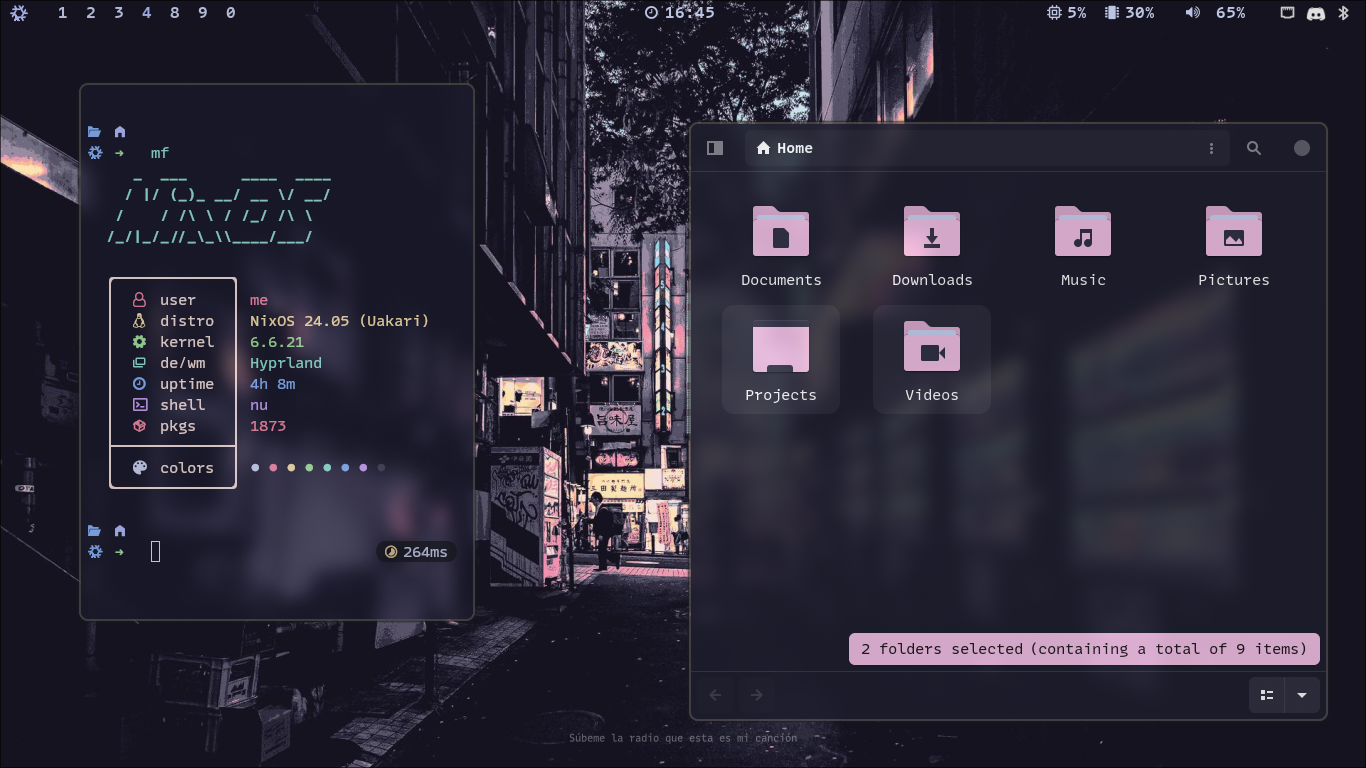
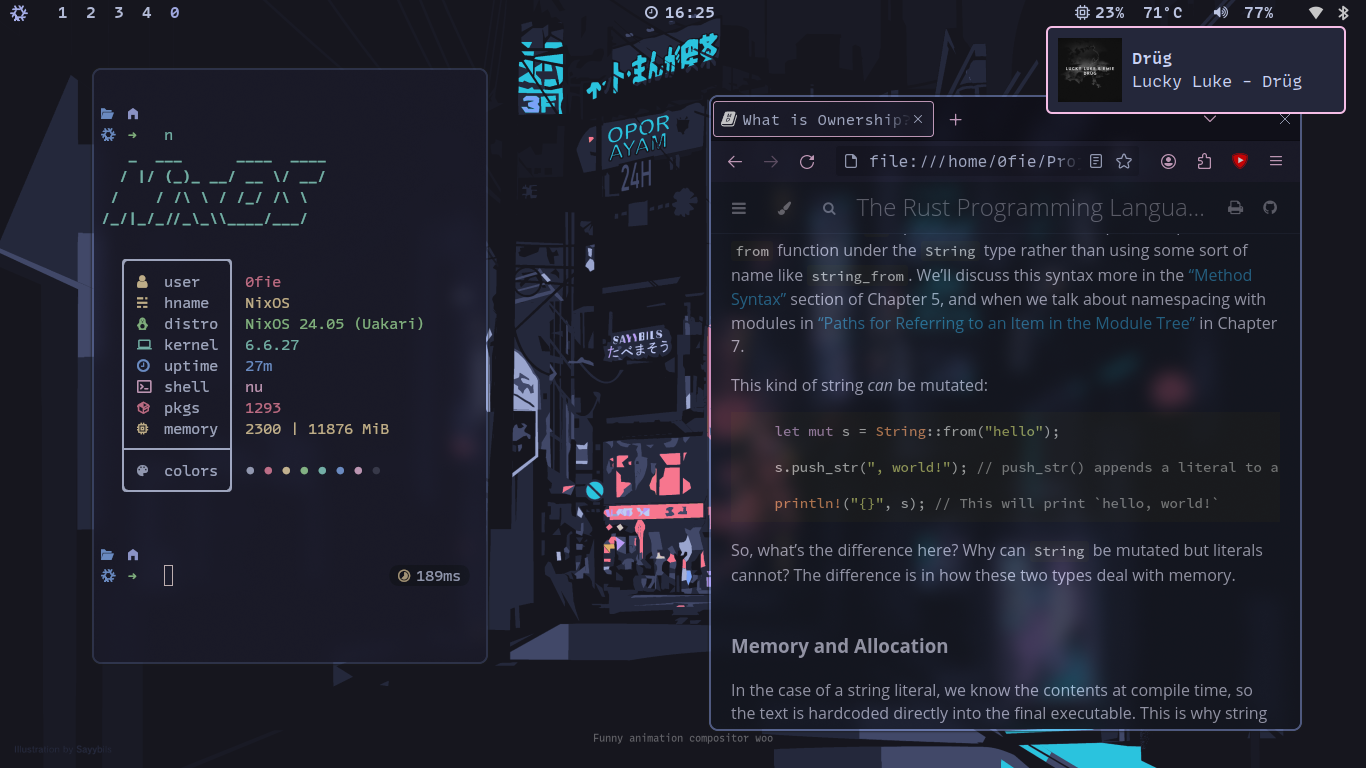
chore: update rice images

diff --git a/README.md b/README.md
@@ -1,11 +1,9 @@
 <h1 align="center">
    <img src="https://github.com/0fie/Maika/assets/151028199/6da7fe65-6661-4bb6-b5bc-b72aa6d79a7a" width="100px" /> 
-   <br>
-      0fie's ultra-simple NixOS config 
-   <br>
-      <img src="https://raw.githubusercontent.com/catppuccin/catppuccin/main/assets/palette/macchiato.png" width="600px" /> <br>
-   <div align="center">
+   <br>0fie's ultra-simple NixOS config
+   <br><img src="https://raw.githubusercontent.com/catppuccin/catppuccin/main/assets/palette/macchiato.png" width="600px" /><br>
 
+   <div align="center">
    <div align="center">
       <p></p>
       <div align="center">
@@ -29,12 +27,8 @@
 <br>
 </div>
 
-<p align="center">
-   <img src="https://github.com/0fie/Maika/blob/main/docs/images/rice/v1/rice.png" width="800px" /> <br>
-</p>
-<p align="center">
-   Screenshot last updated <b>20 March</b>
-</p>
+<p align="center"><img src="https://github.com/0fie/Maika/blob/main/docs/images/rice/v1/rice.png" width="800px" /><br></p>
+<p align="center">Screenshot last updated <b>21 April</b></p>
 
 ### 🖼 Gallery
 
@@ -48,25 +42,14 @@
    </p>
 
    <p align="center">
-      Hyprlock (lock screen)
-      <img src="https://github.com/0fie/Maika/blob/main/docs/images/rice/v1/lock.png" width="800px" /> <br>
-   </p>
-   <p align="center">
       App Launcher (rofi-wayland)
       <img src="https://github.com/0fie/Maika/blob/main/docs/images/rice/v1/rofi.png" width="800px" /> <br>
    </p>
+
    <p align="center">
-      Helix Editor (left) and Yazi (right)
+      Neovim (left) and Yazi (right)
       <img src="https://github.com/0fie/Maika/blob/main/docs/images/rice/v1/cli.png" width="800px" /> <br>
    </p>
-
-</details>
-
-<details>
-  <summary>Next version</summary>
-  <p align="center">
-    V2 (work in progress)
-    <img src="https://github.com/0fie/Maika/blob/main/docs/images/rice/v2/home.png" /> <br>
 </details>
 
 <details>
